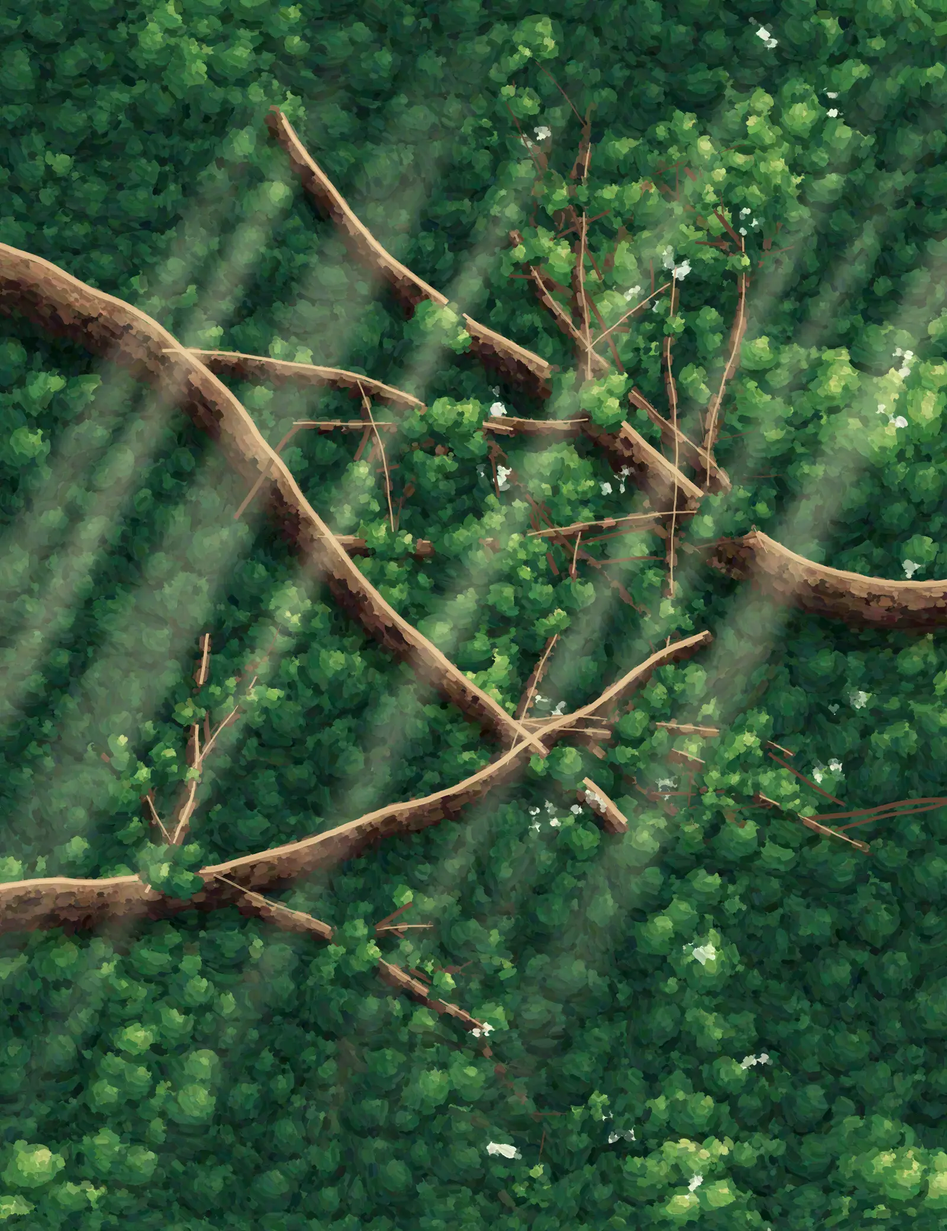
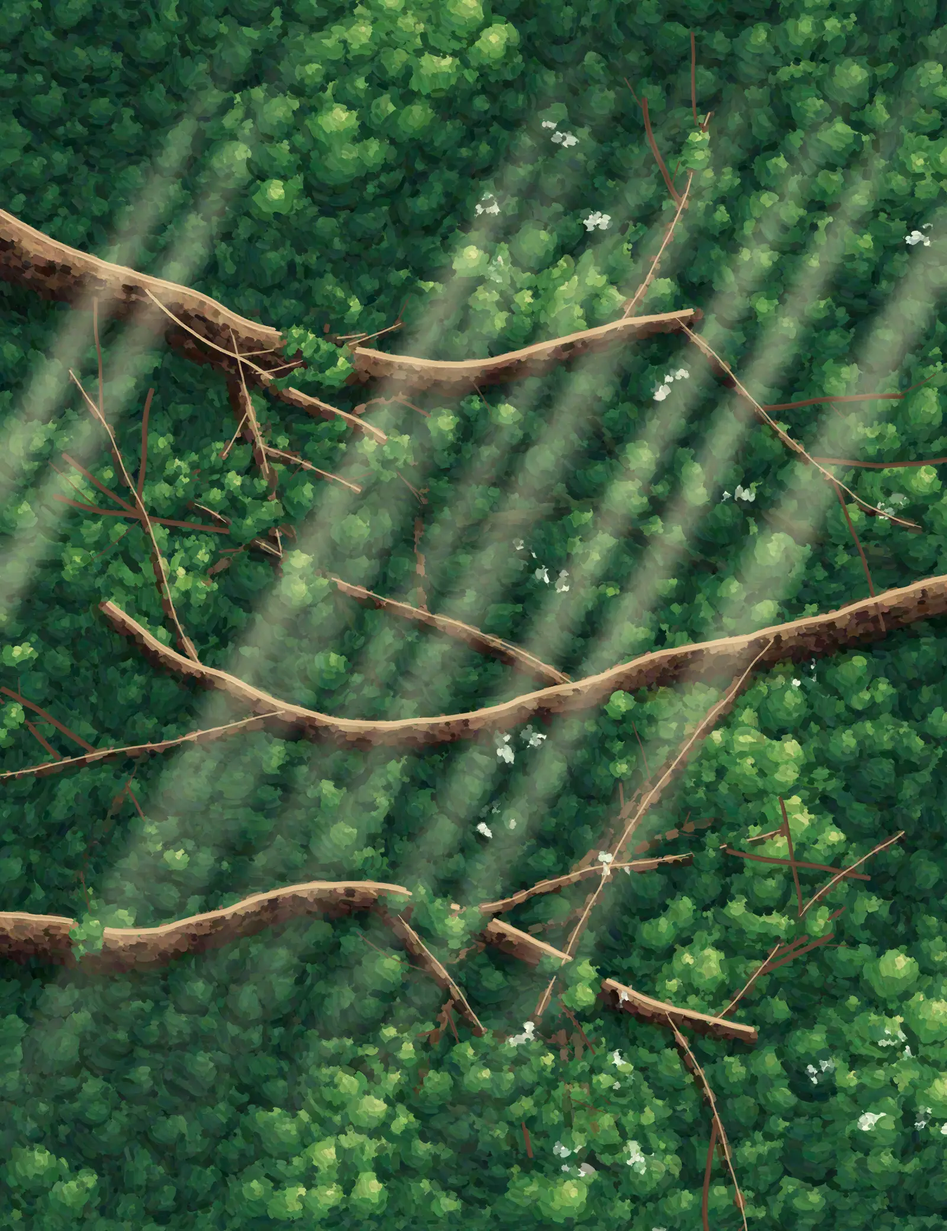
fix(landing): put the hero's small text and top links on paper
Small type straight on the brushwork passed contrast by the numbers
but was hard to read. The definition, intro and buttons now sit on a
paper card like every other block, and the top links on paper pills.
Only the very large title stays on the sky.

Repaint both layouts with more sky for the card, give the tall
layout's trunks and deep earth more room, and move the wide layout's
breakpoint to 1200px, so each section fits its piece of the painting.

Claude-Session: https://claude.ai/code/session_012KEDndk26D229XghHMz4Pq

diff --git a/landing/landing.css b/landing/landing.css
@@ -294,7 +294,7 @@ a {
 /* Tall painting: each piece's height in widths matches `TALL.heights` in paint.py. */
 .sky {
   --piece: url('img/tall/sky.webp');
-  aspect-ratio: 100 / 270;
+  aspect-ratio: 100 / 300;
   background-color: var(--sky);
   background-position: center bottom;
 }
@@ -305,7 +305,7 @@ a {
 }
 .understory {
   --piece: url('img/tall/trunks.webp');
-  aspect-ratio: 100 / 370;
+  aspect-ratio: 100 / 390;
   background-color: var(--mist);
 }
 .soil {
@@ -317,15 +317,15 @@ a {
 .deep {
   --tint: var(--tint-earth);
   --piece: url('img/tall/deep.webp');
-  aspect-ratio: 100 / 410;
+  aspect-ratio: 100 / 440;
   background-color: var(--deep);
 }
 
 /* Wide painting: `WIDE.heights` in paint.py. */
-@media (min-width: 1100px) {
+@media (min-width: 1200px) {
   .sky {
     --piece: url('img/wide/sky.webp');
-    aspect-ratio: 100 / 80;
+    aspect-ratio: 100 / 90;
   }
   .canopy {
     --piece: url('img/wide/canopy.webp');
@@ -349,7 +349,7 @@ a {
 
 .sky {
   /* Keep the words clear of the treetops at the bottom of this piece. */
-  padding-bottom: 74vw;
+  padding-bottom: 48vw;
   color: var(--sky-text);
 }
 
@@ -358,8 +358,17 @@ a {
   flex-wrap: wrap;
   align-items: center;
   justify-content: flex-end;
-  gap: 4px 24px;
+  gap: 8px;
   padding-block: 12px;
+}
+
+/* The top links get paper under them too, for the same reason as the intro. */
+.topbar .quiet-link {
+  padding: 0 14px;
+  border-radius: 9999px;
+  background: var(--surface);
+  color: var(--ink);
+  text-decoration: none;
 }
 
 .hero {
@@ -380,6 +389,15 @@ a {
   color: var(--sky-text);
 }
 
+/* The words under the title sit on paper, like every other block of text:
+   small type straight on the brushwork is hard to read. Only the title, which
+   is very large, sits on the sky itself. */
+.intro {
+  display: grid;
+  gap: 16px;
+  max-width: 38rem;
+}
+
 .lede {
   max-width: 34rem;
   font: 400 clamp(19px, 2.2vw, 22px) / 1.5 var(--font-serif);
@@ -398,7 +416,7 @@ a {
 }
 
 .hero .actions {
-  padding-top: 8px;
+  padding-top: 4px;
 }
 
 /* ---------- Canopy ---------- */
@@ -567,9 +585,9 @@ a {
   line-height: 1.4;
 }
 
-@media (min-width: 1100px) {
+@media (min-width: 1200px) {
   .sky {
-    padding-bottom: 28vw;
+    padding-bottom: 16vw;
   }
   .canopy {
     padding-block: 6vw 10vw;

diff --git a/landing/index.html b/landing/index.html
@@ -29,6 +29,7 @@
         </nav>
         <div class="hero">
           <h1>Reconcile</h1>
+          <div class="win intro">
           <p class="define"><i>verb.</i> To find common ground, then act on it together.</p>
           <p class="lede">Reconcile is a home for all sorts of Groups.</p>
           <ul class="lede points">
@@ -50,6 +51,7 @@
             <!-- OPEN: where the app lives relative to this page (landing/README.md). -->
             <a class="button" href="/">Start a Group</a>
             <a class="quiet-link" href="#dispatches">See how posts spread</a>
+          </div>
           </div>
         </div>
       </div>

diff --git a/landing/paint.py b/landing/paint.py
@@ -93,7 +93,7 @@ WIDE = Layout(
     name="wide",
     width=1600,
     units=1600,
-    heights=(0.8, 1.3, 0.98, 0.7, 1.3),
+    heights=(0.9, 1.3, 0.98, 0.7, 1.3),
     trees=(0.09, 0.26, 0.74, 0.91),
     crowns=0.25,
     floor=0.2,
@@ -105,7 +105,7 @@ TALL = Layout(
     name="tall",
     width=720,
     units=900,
-    heights=(2.7, 5.4, 3.7, 2.4, 4.1),
+    heights=(3.0, 5.4, 3.9, 2.4, 4.4),
     trees=(0.07, 0.3, 0.7, 0.93),
     crowns=0.7,
     floor=0.5,

diff --git a/landing/README.md b/landing/README.md
@@ -27,7 +27,7 @@ Keep it there when you edit.
   tokens at the top mirror [`DESIGN.md`](../DESIGN.md).
 - `paint.py`: paints the background. See below.
 - `img/wide/`, `img/tall/`: the painting, cut into one WebP per section. `wide` is for windows
-  1100px and up, `tall` for phones and narrow windows.
+  1200px and up, `tall` for phones and narrow windows.
 - `fonts/`: self-hosted Newsreader and Public Sans (see `fonts/README.md`).
 
 ### How the painting is made
